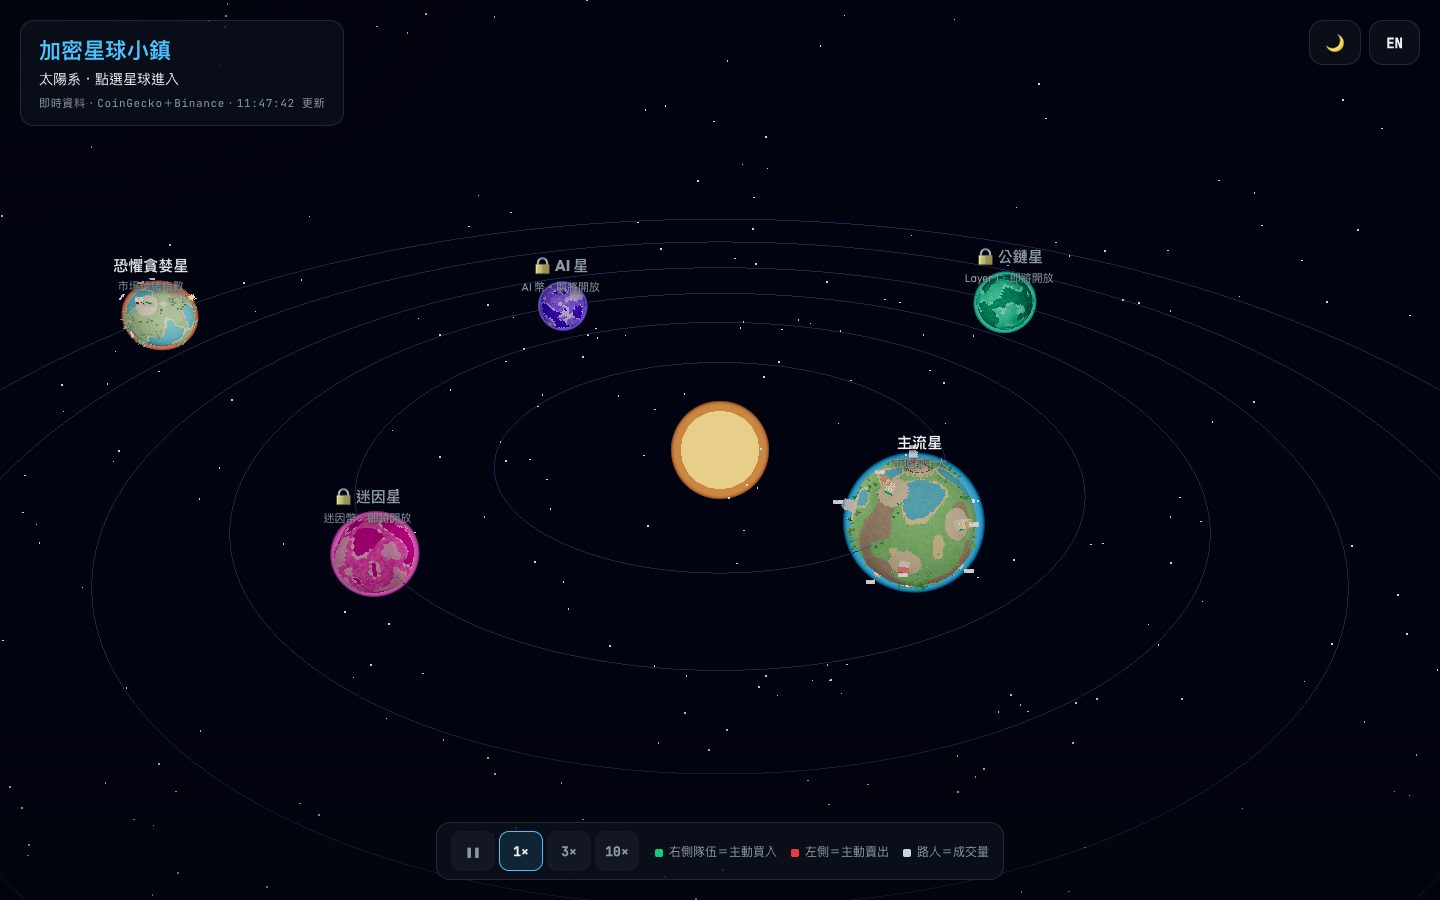
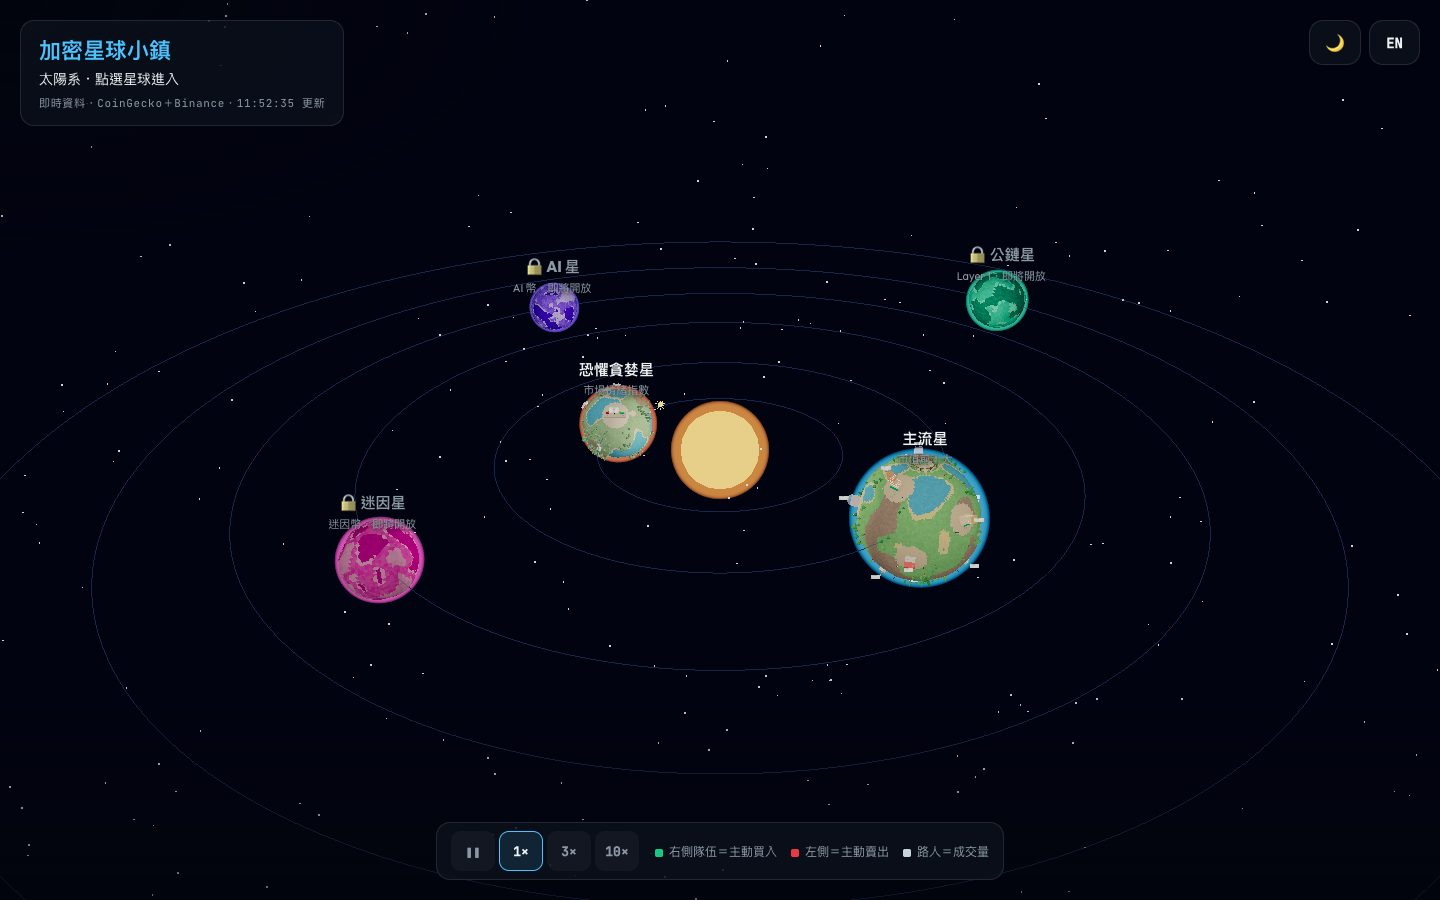
fix: move the Fear & Greed planet to the innermost orbit so it stays on screen

diff --git a/tests/planets.test.js b/tests/planets.test.js
@@ -11,10 +11,13 @@ describe('PLANETS', () => {
   it('主流星、ETF 星、恐懼貪婪星開放（後兩顆要等資料載入成功才解鎖）', () => {
     expect(PLANETS.filter((p) => p.enabled).map((p) => p.id)).toEqual(['major', 'etf', 'mood']);
   });
-  it('軌道半徑由內而外遞增，不會撞在一起', () => {
-    const orbits = PLANETS.map((p) => p.orbit);
-    expect(orbits).toEqual(orbits.toSorted((a, b) => a - b));
+  it('軌道半徑不重複，相鄰軌道至少相隔 25，不會撞在一起', () => {
+    const orbits = PLANETS.map((p) => p.orbit).toSorted((a, b) => a - b);
     expect(new Set(orbits).size).toBe(orbits.length);
+    orbits.slice(1).forEach((o, i) => expect(o - orbits[i]).toBeGreaterThanOrEqual(25));
+  });
+  it('最外圈軌道不超過 ETF 星，預設的太陽系視角放得下所有星球', () => {
+    expect(Math.max(...PLANETS.map((p) => p.orbit))).toBe(findPlanet('etf').orbit);
   });
 });
 

diff --git a/src/data/planets.js b/src/data/planets.js
@@ -8,7 +8,8 @@ export const PLANETS = Object.freeze([
   { id: 'ai', color: '#8b6cff', enabled: false, orbit: 128, speed: 0.02, phase: 4.2, radius: 8 },
   { id: 'layer1', color: '#3dd6b0', enabled: false, orbit: 158, speed: 0.016, phase: 5.4, radius: 10 },
   { id: 'etf', color: '#f2c14e', enabled: true, orbit: 192, speed: 0.012, phase: 1.3, radius: 11 },
-  { id: 'mood', color: '#ff8a5c', enabled: true, orbit: 226, speed: 0.01, phase: 3.6, radius: 11 },
+  // 恐懼貪婪星在最內圈：外圈已經接近預設視角的邊緣，再往外會跑出畫面
+  { id: 'mood', color: '#ff8a5c', enabled: true, orbit: 34, speed: 0.05, phase: 3.6, radius: 10 },
 ].map(Object.freeze));
 
 export function orbitPosition(planet, t) {
